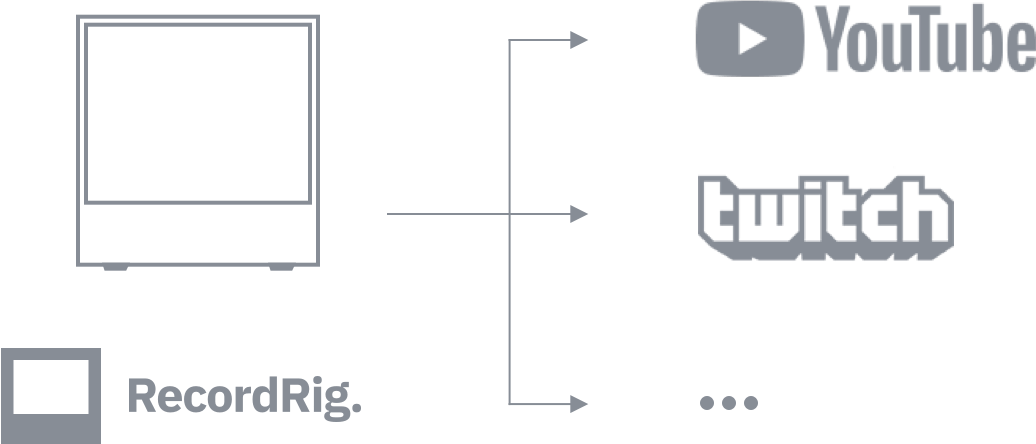
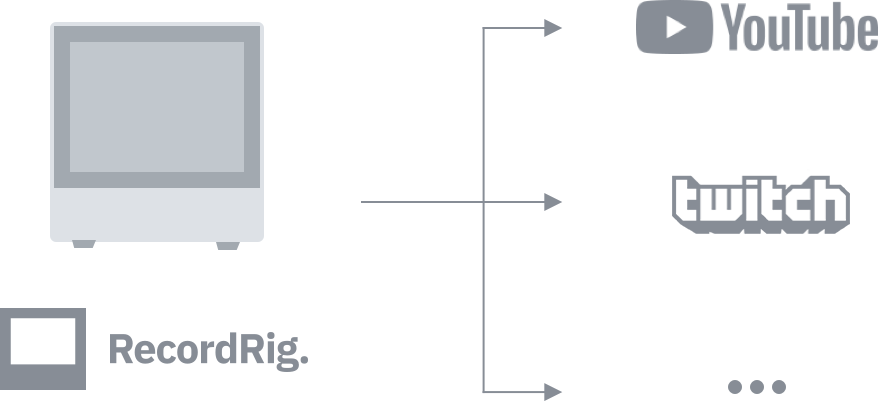
Improve 'In the box'

diff --git a/components/RecordRigConfigurator.tsx b/components/RecordRigConfigurator.tsx
@@ -69,6 +69,7 @@ const StyledContent = styled.div`
     justify-content: space-between;
     padding-left: 16px;
     padding-right: 16px;
+    padding-bottom: 128px;
   }
 `;
 
@@ -665,85 +666,6 @@ const StyledAddToBag = styled.div`
   }
 `;
 
-const StyledInTheBox = styled.div`
-  box-sizing: border-box;
-  margin-left: auto;
-  margin-right: auto;
-
-  img {
-    max-width: 100%;
-  }
-
-  ul {
-    list-style-type: none;
-    margin-top: 32px;
-    padding-left: 0;
-
-    li {
-      color: #697077;
-      font-size: 14px;
-      margin-bottom: 12px;
-    }
-  }
-
-  @media (max-width: 699px) {
-    margin-bottom: 256px;
-    width: 100%;
-
-    h3 {
-      margin-top: 32px;
-    }
-
-    img {
-      width: 100%;
-    }
-  }
-
-  @media (min-width: 700px) {
-    display: flex;
-    margin-bottom: 256px;
-    max-width: 1216px;
-    width: 100%;
-
-    h3 {
-      margin-top: 0;
-      margin-left: 16px;
-    }
-
-    > div:first-child {
-      flex-basis: 288px;
-      flex-grow: 0;
-      flex-shrink: 0;
-    }
-
-    > div:last-child {
-      flex-grow: 1;
-      padding-right: 16px;
-    }
-
-    img {
-      max-width: 696px;
-      width: 100%;
-    }
-
-    ul {
-      margin-top: 48px;
-    }
-
-    li {
-      font-size: 18px;
-    }
-  }
-
-  @media (min-width: 1024px) {
-    margin-top: 448px;
-
-    h3 {
-      font-size: 28px;
-    }
-  }
-`;
-
 interface StyledRecordRigConfiguratorProps {
   readonly step2: boolean;
 }
@@ -1132,7 +1054,7 @@ const RecordRigConfigurator: FunctionComponent<RecordRigConfiguratorProps> = ({
                   <div>
                     <img
                       alt=""
-                      src="/in-the-box.svg"
+                      src={`/in-the-box-${blackChosen ? "black" : "white"}.svg`}
                       style={{
                         marginBottom: "64px",
                         maxWidth: "600px",

diff --git a/pages/tech-specs.tsx b/pages/tech-specs.tsx
@@ -273,7 +273,7 @@ const TechSpecsPage: FunctionComponent = () => {
           <div>
             <img
               alt=""
-              src="/multi-stream.png"
+              src="/multi-stream.png?v=2"
               style={{ marginBottom: "64px", maxWidth: "600px", width: "100%" }}
             />
             <Paragraph>
@@ -432,7 +432,7 @@ const TechSpecsPage: FunctionComponent = () => {
           <div>
             <img
               alt=""
-              src="/in-the-box.svg"
+              src="/in-the-box.svg?v=2"
               style={{ marginBottom: "64px", maxWidth: "600px", width: "100%" }}
             />
             <StyledList>
